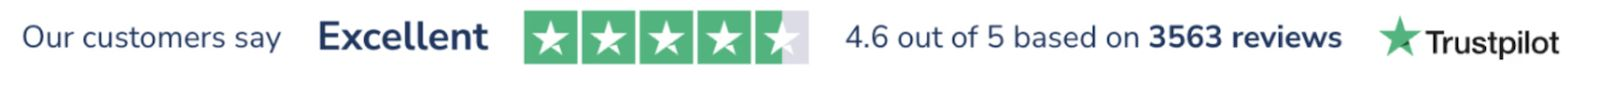
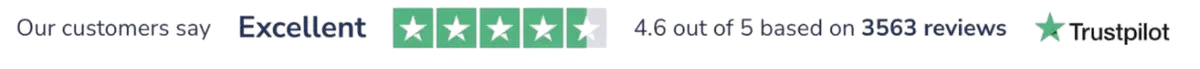
feat: Update Trustpilot image - 25% larger with transparent bg
Changes to Trustpilot rating display:
- Replace with new transparent background version
- Increase size by 25%: 600x50 → 750x63
- Update max-width: max-w-md → max-w-lg
- Cleaner transparent PNG (67KB)

Result: Larger, more visible Trustpilot rating with clean transparent background

diff --git a/src/components/quiz/LifeInsuranceCAQuizVariantB.tsx b/src/components/quiz/LifeInsuranceCAQuizVariantB.tsx
@@ -346,14 +346,14 @@ export function LifeInsuranceCAQuizVariantB() {
               </p>
             </div>
 
-            {/* Trustpilot Rating */}
+            {/* Trustpilot Rating - 25% larger */}
             <div className="text-center mb-6">
               <Image
                 src="/images/life-insurance-funnel/trustpilot-proof.png"
                 alt="Trustpilot rating - 4.6 out of 5 based on 3563 reviews"
-                width={600}
-                height={50}
-                className="mx-auto h-auto w-full max-w-md object-contain"
+                width={750}
+                height={63}
+                className="mx-auto h-auto w-full max-w-lg object-contain"
               />
             </div>
 
